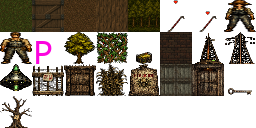
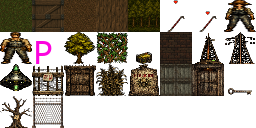
Block access to tree with note

Changed region(s): [[0.125, 0.75, 0.25, 1.0]]

diff --git a/src/game/entity_ids.h b/src/game/entity_ids.h
@@ -10,6 +10,7 @@
 #define GENERATOR_ID 13
 #define RADIO_STATION_ID 15
 #define POWER_TOWER_ID 16
+#define FENCE_ID 18
 #define STATION_DOOR_ID 19
 #define PLANT_ID 20
 #define HERBICIDE_ID 21
@@ -27,6 +28,7 @@
 #define GENERATOR_NAME "generator"
 #define RADIO_STATION_NAME "radio_station"
 #define POWER_TOWER_NAME "power_tower"
+#define FENCE_NAME "fence"
 #define STATION_DOOR_NAME "station_door"
 #define PLANT_NAME "plant"
 #define HERBICIDE_NAME "herbicide"

diff --git a/src/game/game_controller.h b/src/game/game_controller.h
@@ -19,6 +19,7 @@
 #include "../engine/entity.h"
 #include "herbicide.h"
 #include "entity_ids.h"
+#include "fence.h"
 #include "farmer.h"
 #include "barn_worker.h"
 #include "crowbar.h"
@@ -373,6 +374,9 @@ private:
 					break;
 				case HERBICIDE_ID:
 					new herbicide_t(game, pos);
+					break;
+				case FENCE_ID:
+					new fence_t(game, pos);
 					break;
 				case STATION_DOOR_ID:
 					new station_door_t(game, pos);

diff --git a/src/game/fence.h b/src/game/fence.h
@@ -1,0 +1,17 @@
+#pragma once
+
+#include "actionable.h"
+#include "entity_ids.h"
+#include "game_state.h"
+
+struct fence_t : public actionable_t
+{
+	fence_t(game_state_t *game, vec2_t pos) : actionable_t{FENCE_NAME, pos, FENCE_ID}
+	{
+		if (game->num_generators_placed >= 2)
+		{
+			active = false;
+			collidable = false;
+		}
+	}
+};
